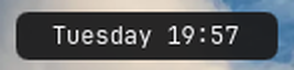
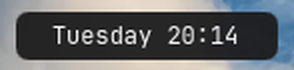
docs: show the center island's hover expansion in the preview and README
Recapture the bar at rest and with the clock hovered back to back, so
both show the same time, via scripts/dev.py.

- preview.png: the top row now lays out the islands as on the real bar,
  with the clock centered and equal edge margins, instead of packing the
  center and right islands together. A second row shows the center island
  expanded on hover. The tagline no longer names Hyprland, which Omarchy
  already implies.
- README: add island-center-hover.png with a short explanation, describe
  the hover expansion under Features, and drop the separate Hyprland
  mention from the requirements.

Changed region(s): [[0.7041, 0.3429, 0.8265, 0.6571], [0.551, 0.3714, 0.6735, 0.6571]]

diff --git a/README.md b/README.md
@@ -26,6 +26,11 @@ The full bar on a 2560px monitor:
 | :---: | :---: | :---: |
 | ![Workspaces island](docs/screenshots/island-left.png) | ![Clock island](docs/screenshots/island-center.png) | ![Status island](docs/screenshots/island-right.png) |
 
+Hover the clock and the center island expands to show its indicators and the
+other center widgets. The clock stays where it is:
+
+![Center island expanded on hover, with indicators to the left of the clock and more widgets to the right](docs/screenshots/island-center-hover.png)
+
 These captures use the Starship theme and the author's own widget layout. The
 islands show whatever widgets your bar layout lists, so some icons above come
 from separate widget plugins rather than from Dicey Bar itself.
@@ -42,9 +47,10 @@ from separate widget plugins rather than from Dicey Bar itself.
   their state and the shell isn't restarted.
 - **Islands never get stuck hidden.** Island visibility follows your
   configured entries, so a remap can't leave all three islands hidden.
-- **Clock stays centered.** The center anchor (normally the clock) stays at
-  the physical center of the display, even when the center island holds other
-  widgets.
+- **Compact center island that expands on hover.** At rest the center island
+  shows only the clock. Hover it to reveal the indicators and the other center
+  widgets. The center anchor (normally the clock) stays at the physical center
+  of the display either way.
 - **Your existing layout.** Dicey Bar is a clone of Omarchy's own
   `omarchy.bar`. It reads the same bar layout and widget IDs, and the
   `omarchy bar` commands edit it.
@@ -101,7 +107,7 @@ compared with the stock bar.
 ## Requirements and updates
 
 Tested on **Omarchy 4.0.6 and 4.5.0 / Quattro, Qt 6.12 and Quickshell 0.3.2**. Use an
-Omarchy installation with its matching shell imports, Hyprland, Bash, Git and
+Omarchy installation with its matching shell imports, Bash, Git and
 `jq`. Configured widgets use Omarchy's normal helper commands; keyboard-layout
 descriptions additionally use `xkbcli` (`libxkbcommon`), recording status uses
 `pgrep` (`procps-ng`), and optional dictation uses Omarchy's Voxtype integration.
